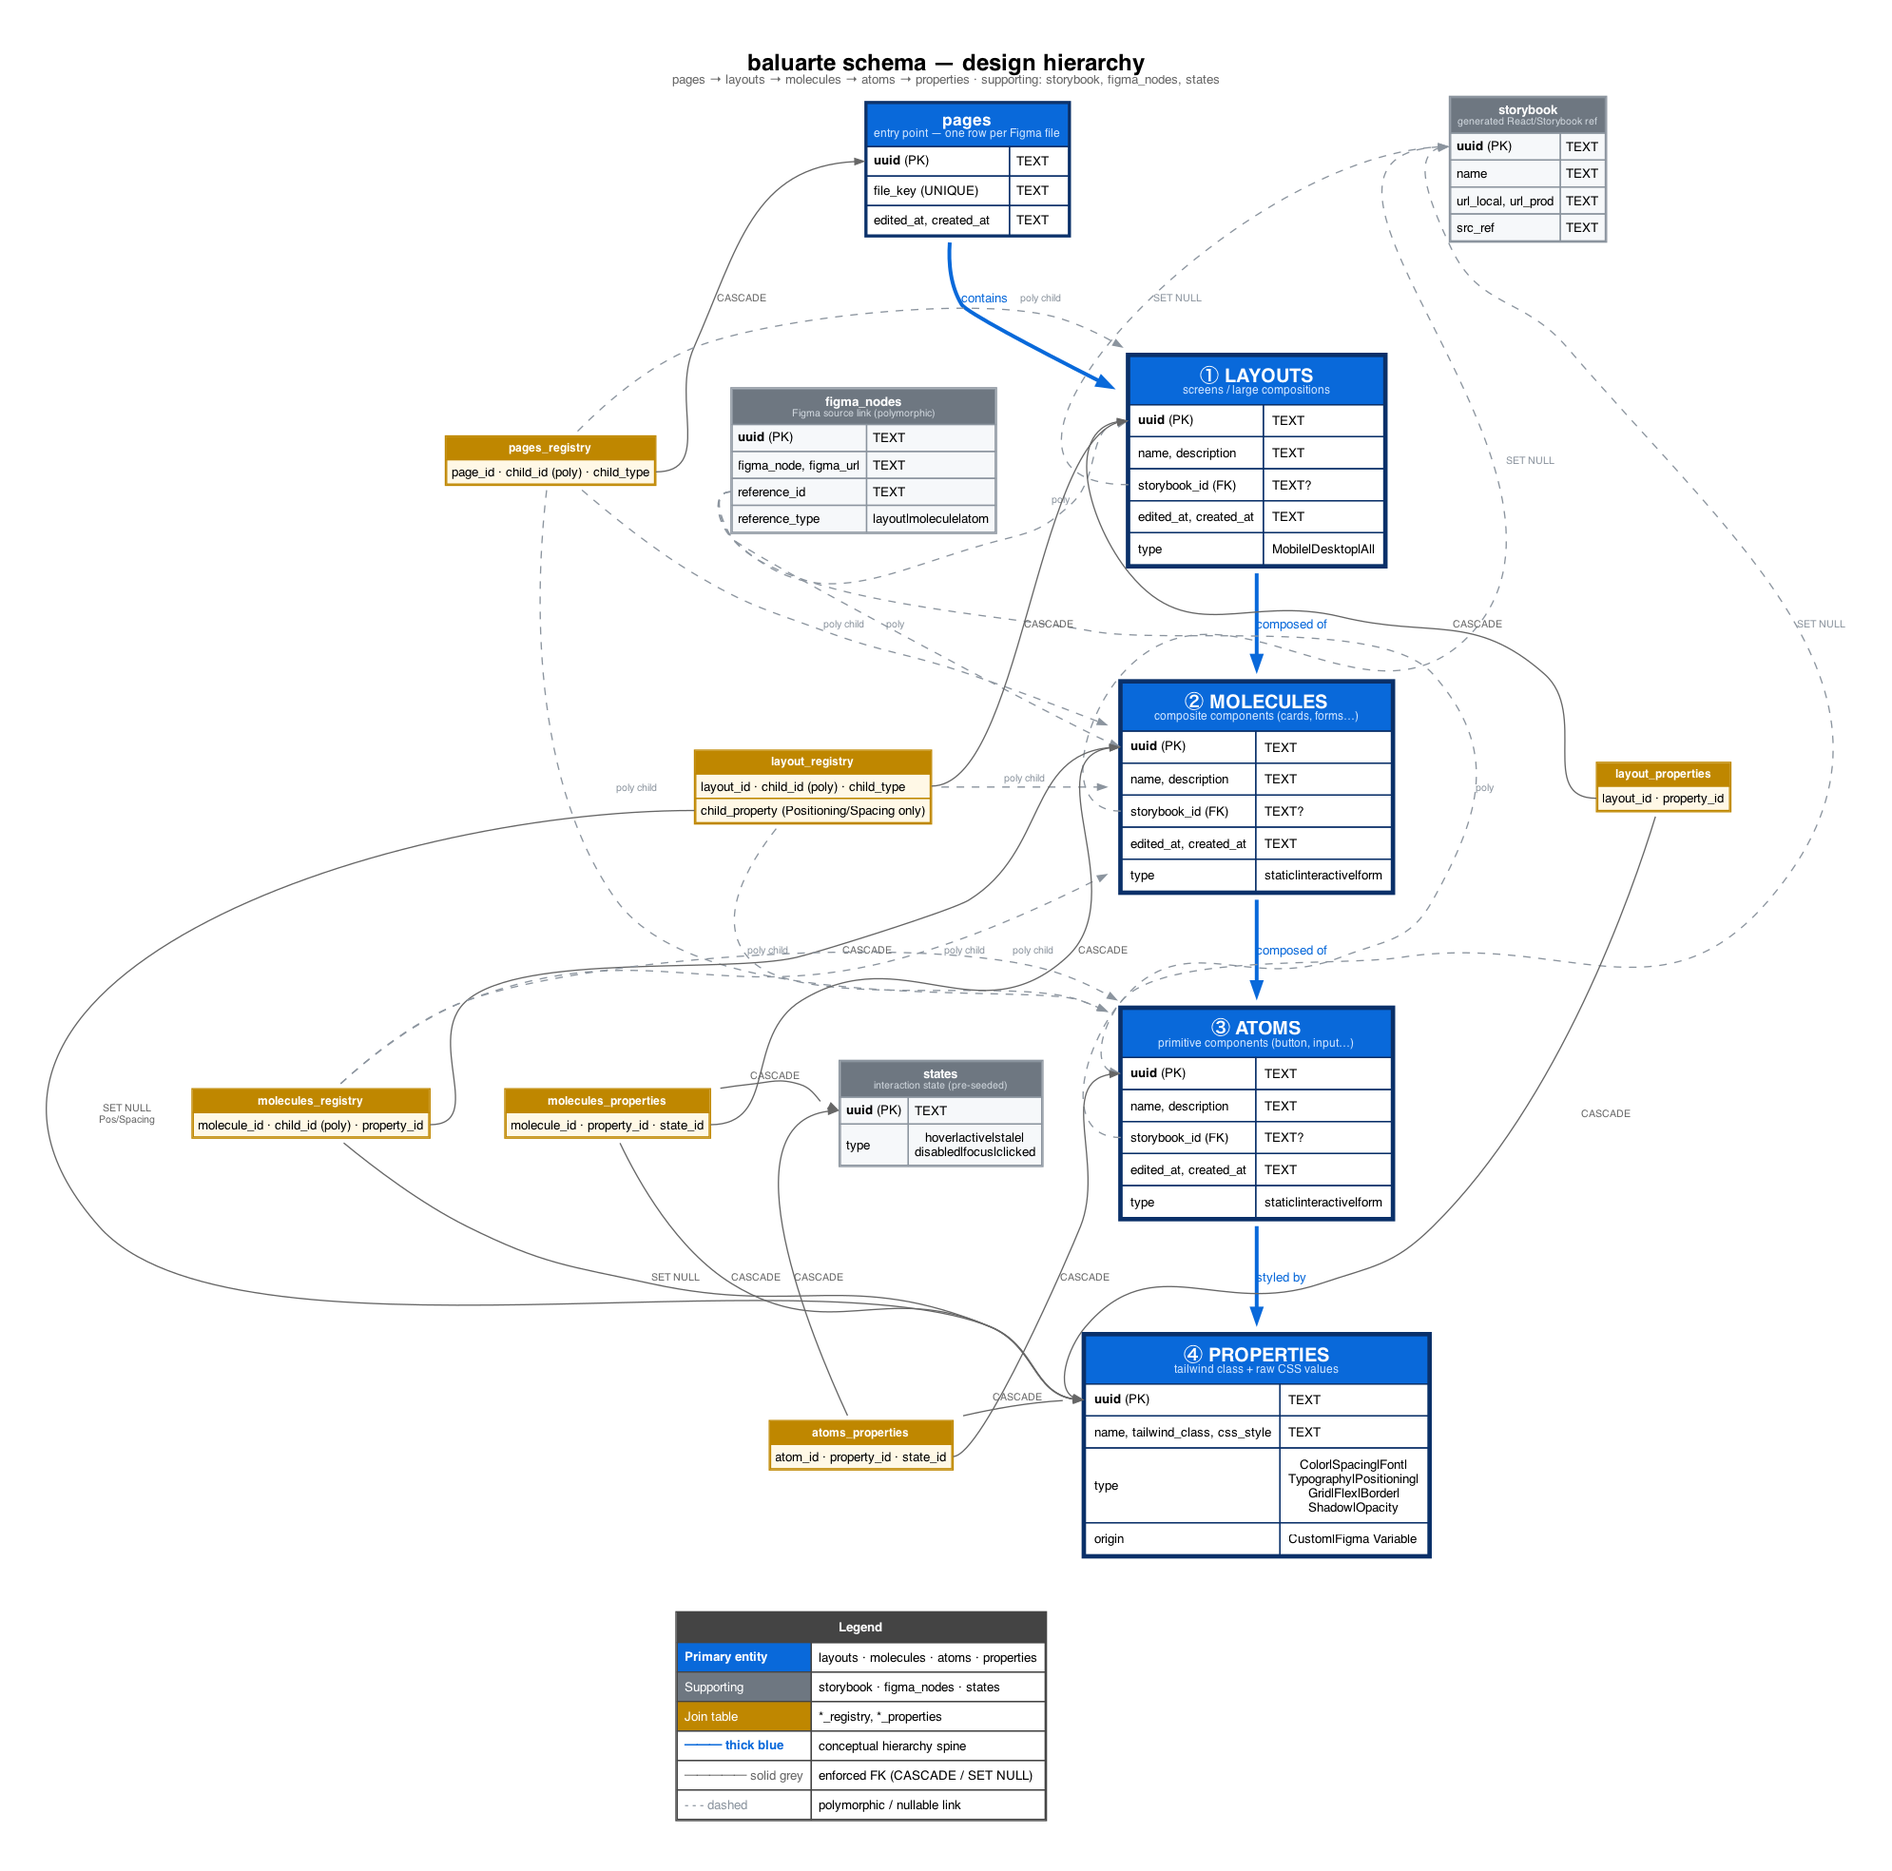
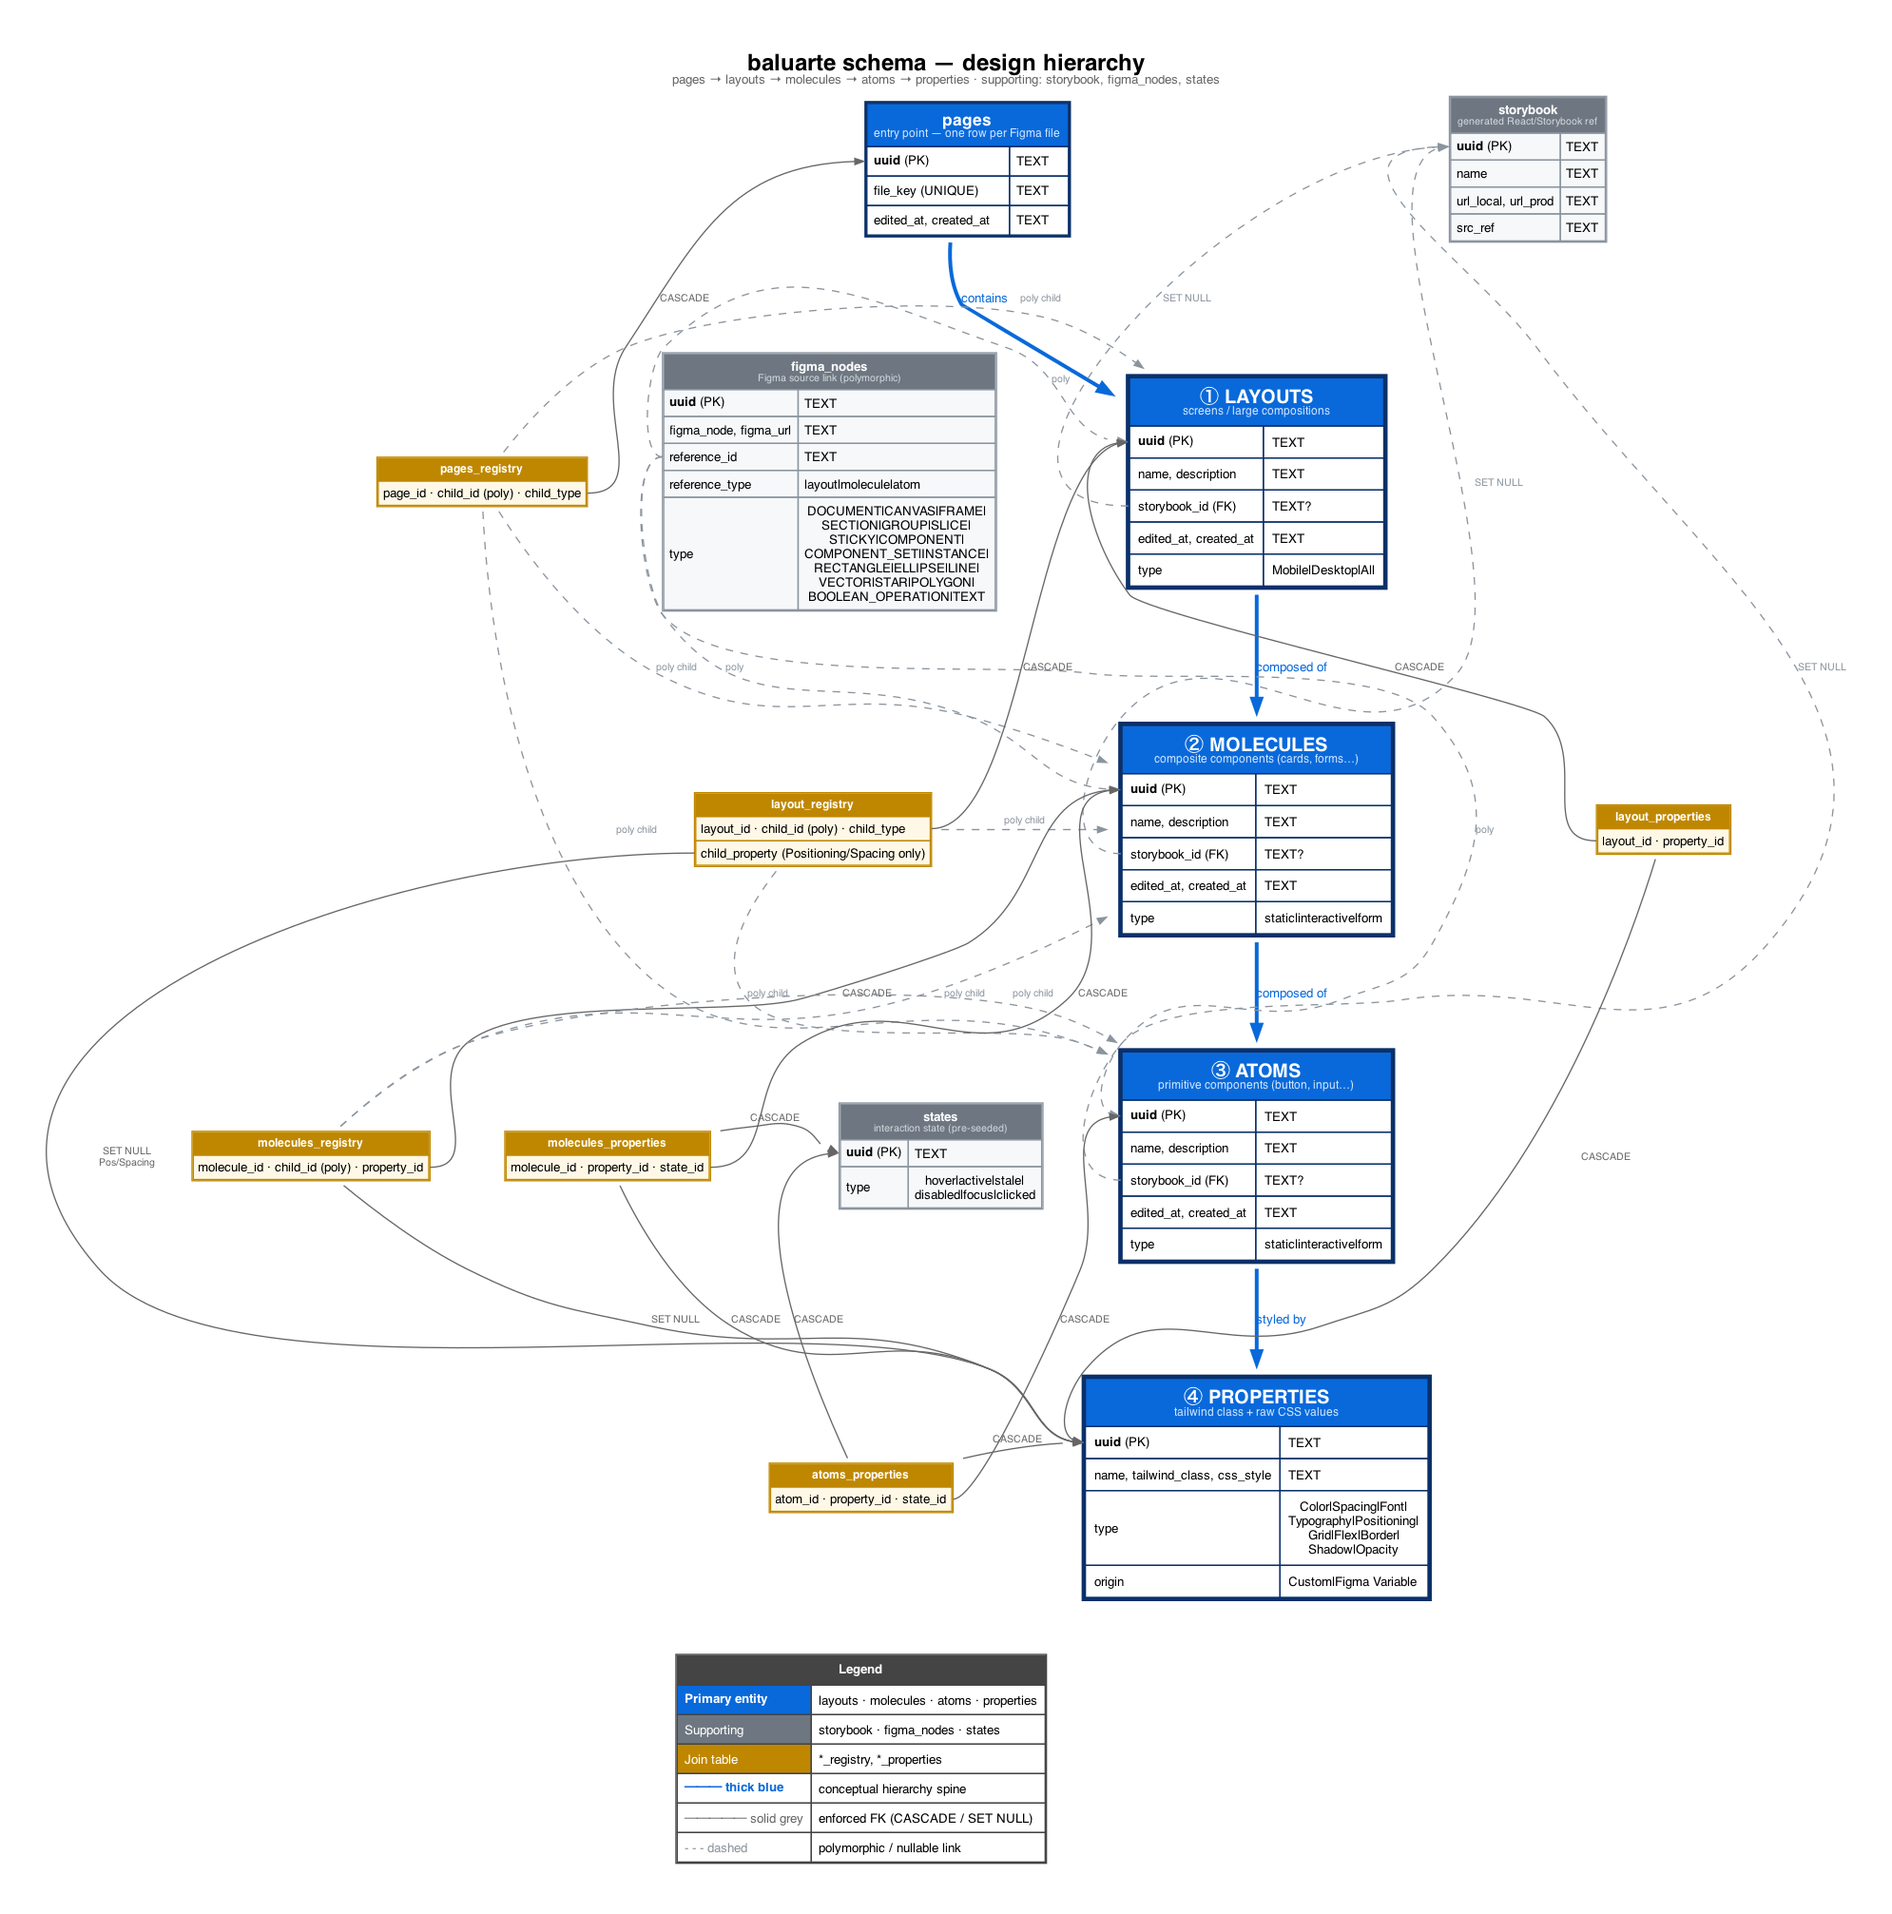
feat: add multiple queries for baluarte-remember

diff --git a/.claude/skills/baluarte-analyze/SKILL.md b/.claude/skills/baluarte-analyze/SKILL.md
@@ -1,0 +1,84 @@
+---
+name: baluarte-analyze
+description: This skill is the process to extract data from figma, proccess the data and works along with the baluarte-remember skill to update the sqlite memory.
+allowed-tools:
+  - mcp__metalab__figma__connect_account
+  - mcp__metalab__figma__test_figma_connection
+  - mcp__metalab__figma__get_figma_node
+  - mcp__metalab__figma__search_nodes
+  - mcp__metalab__figma__get_comments
+  - mcp__metalab__figma__download_node_images
+  - mcp__metalab__figma__download_file_all_raw_images
+  - mcp__metalab__figma_live_get_current_file
+  - mcp__metalab__figma_live_get_page_structure
+  - mcp__metalab__figma_live_get_node
+  - mcp__metalab__figma_live_get_selection
+  - mcp__metalab__figma_live_get_styles
+  - mcp__metalab__figma_live_get_local_components
+---
+
+# baluarte-analyze
+
+Any time the user wants to understand a node, a canvas, a layout from the figma file this skill will be used as the intermediate step to make mcp requests, call baluarte skill and compare existing information with new information. The main goal is to keep the sqlite memory with relevant data, and avoid storing unnecesary garbage fields. This skill will be very interactive along with the user/agent who calls it to validate the intention when processing a url/node-id from figma.
+
+## When to use
+
+- When the user wants to document a page, a layout, a component or a property, and want that data to be consistent inside the baluarte-remember
+- When the user wants to update existing data inside the baluarte-remember skill
+
+## When NOT to use
+
+- When the user needs to create code for storybook or any kind of code, unless the user wants to update the database before the creation of the component.
+- When the user needs to write inside the directly in the database, that should be the baluarte-remember skill
+
+## Inputs
+
+| Flag                    | Required | Type                                                           | Description                                                                                                                               |
+| ----------------------- | -------- | -------------------------------------------------------------- | ----------------------------------------------------------------------------------------------------------------------------------------- |
+| `--selection "<value>"` | **yes**  | url \| string                                                  | URL or node-id of the selection from figma                                                                                                |
+| `--type "<value>"`      | **yes**  | enum: `Page` \| `Layout` \| `Molecule` \| `Atom` \| `Property` | What kind of entity the target node represents. Drives which `baluarte-remember` table the analysis writes to.                            |
+| `--name "<value>"`      | no       | string                                                         | Override name for the entity. When omitted, the skill suggests a name from the Figma node and confirms with the caller before persisting. |
+| `--prompt "<value>"`    | no       | string                                                         | Prompt from the user to explain better the intetion when processing the url                                                               |
+
+if --type and --url are not passed then trigger an error and stop the process
+
+### Example invocations
+
+```bash
+# Mandatory --type only; --name will be inferred from Figma and confirmed
+/baluarte-analyze --selection https://www.figma.com/design/<file-key>?node-id=2011-2674 --type "Atom"
+
+# Both flags supplied — no name confirmation prompt
+/baluarte-analyze --selection https://www.figma.com/design/<file-key>?node-id=2011-2618 --type "Layout" --name "DashboardShell"
+```
+
+Calling without `--type` is an error: the skill must fail fast with a copy-pasteable example showing the five valid enum values.
+
+## Outputs
+
+Finished: All data has been stored inside baluarte.db. Changes include {Explain new data created}
+
+## Prerequisites
+
+- If the user doesn't provide a name, before writting/modifying anything with baluarte-remember propose a name and ask for the user validation.
+- If the node-id does not exist from the responses from baluarte-remember and you are not sure if this is a Page, a Layout, a Component, or a Property make sure to ask the user before doing writing/modifying with baluarte-remember
+
+## Procedure
+
+### Page procedure
+
+If the --type is a Page
+
+1. use the tool mcp**metalab**figma\_\_search_nodes to get the data from figma for the received url
+2. extract the figma file id and the figma node id
+3. ask to baluarte if this page exists on it's registry
+
+If it does no
+
+## Invariants
+
+TODO — uniqueness rules, idempotency guarantees, dedup keys.
+
+## What NOT to do
+
+TODO

diff --git a/queries/INDEX.md b/queries/INDEX.md
@@ -90,11 +90,11 @@ States are pre-seeded by `schema.sql`. The mutate queries below exist for comple
 
 | Name | File | Params | Description |
 |---|---|---|---|
-| insert_figma_node | insert_figma_node.sql | `:figma_node`, `:figma_url`, `:reference_id`, `:reference_type` | Upsert by `(reference_type, reference_id)` |
+| insert_figma_node | insert_figma_node.sql | `:figma_node`, `:figma_url`, `:reference_id`, `:reference_type`, `:type` | Upsert by `(reference_type, reference_id)`. `:type` ∈ Figma node-kind enum |
 | select_figma_node_by_uuid | select_figma_node_by_uuid.sql | `:uuid` | Fetch one row |
 | select_figma_node_for_reference | select_figma_node_for_reference.sql | `:reference_type`, `:reference_id` | Fetch by polymorphic ref |
 | select_figma_nodes_all | select_figma_nodes_all.sql | — | List all figma_nodes |
-| update_figma_node | update_figma_node.sql | `:uuid`, `:figma_node`, `:figma_url`, `:reference_id`, `:reference_type` | Dynamic update |
+| update_figma_node | update_figma_node.sql | `:uuid`, `:figma_node`, `:figma_url`, `:reference_id`, `:reference_type`, `:type` | Dynamic update |
 | delete_figma_node | delete_figma_node.sql | `:uuid` | Delete one row |
 
 ### properties
